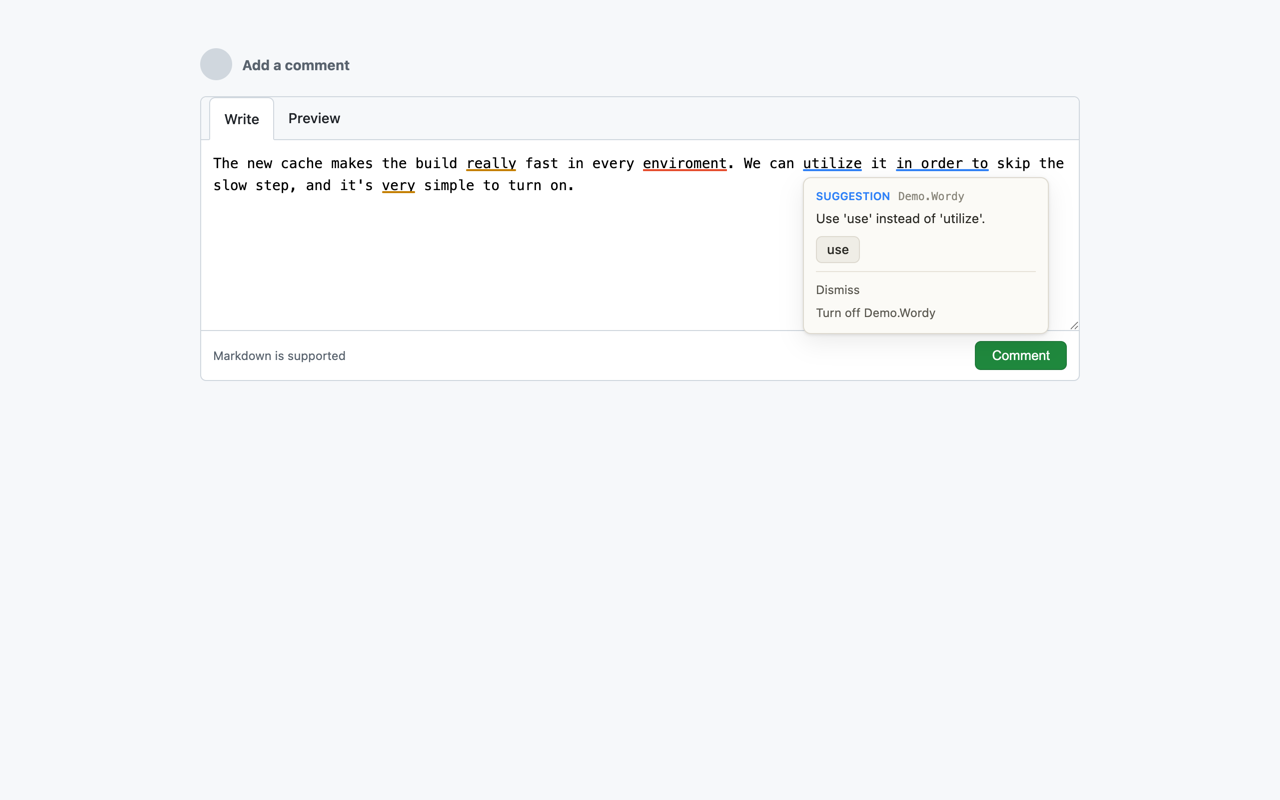
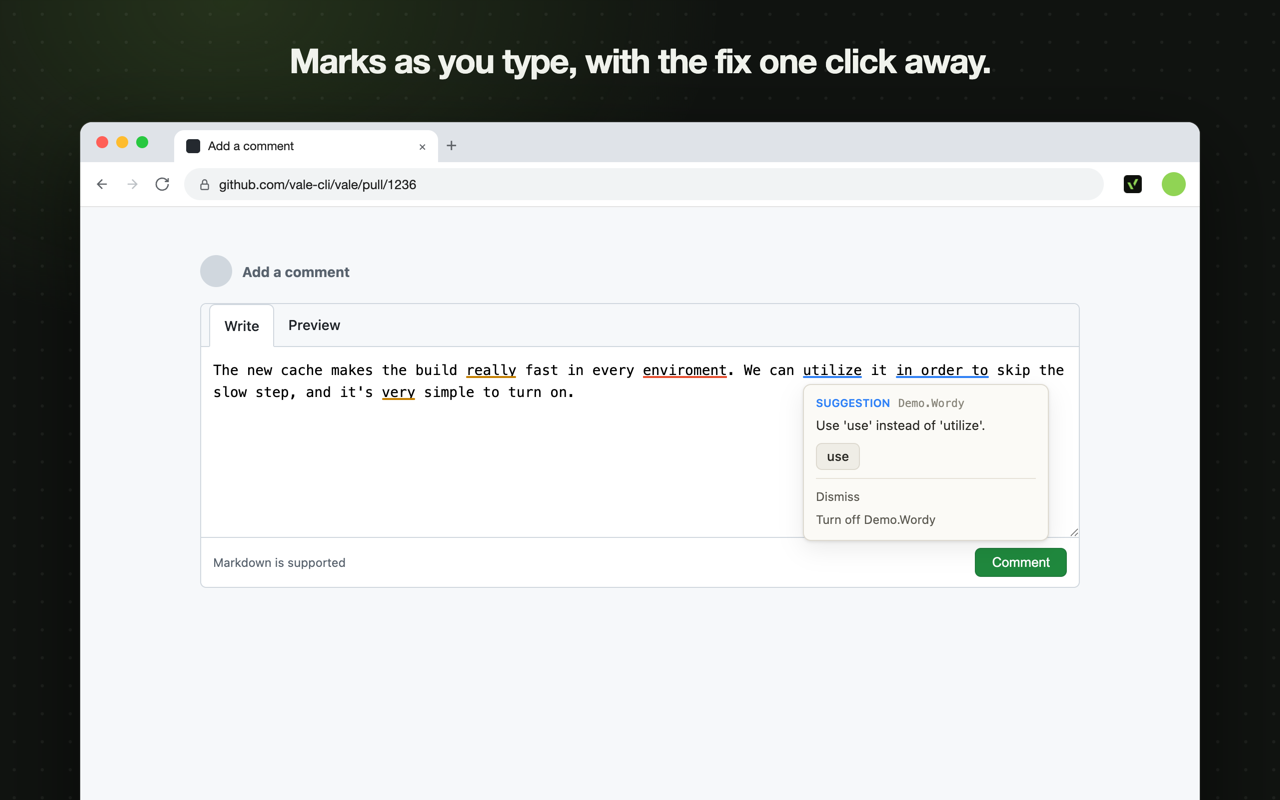
feat: Check AsciiDoc and reStructuredText, and frame the store screenshots

diff --git a/entrypoints/options/App.svelte b/entrypoints/options/App.svelte
@@ -10,6 +10,7 @@
   import CodeEditor from "@/lib/components/CodeEditor.svelte";
   import { valeIniLanguage } from "@/lib/editor/vale-ini";
   import { parsePackages } from "@/lib/packages";
+  import { formats } from "@/lib/format";
   import type { ResolvedConfig, SyncResponse } from "@/lib/messages";
   import { bytesToBase64, defaultINI, defaultSettings, loadSettings, saveSettings, type Settings } from "@/lib/settings";
   import BookOpenIcon from "@lucide/svelte/icons/book-open";
@@ -76,6 +77,11 @@
 
   let saveTimer: number | undefined;
   // Edits apply live: the profile is saved shortly after each change.
+  // The formats to offer a site: the list, and the site's own if it isn't on it.
+  function formatOptions(current: string) {
+    return formats.some((f) => f.id === current) ? formats : [...formats, { id: current, label: current }];
+  }
+
   function changed() {
     saveState = "unsaved";
     window.clearTimeout(saveTimer);
@@ -360,17 +366,26 @@
                 <div class="flex items-center gap-3 border-b px-3 py-2 last:border-b-0">
                   <Switch id="site-{host}" size="sm" bind:checked={site.enabled} onCheckedChange={changed} />
                   <label for="site-{host}" class="truncate">{host}</label>
-                  <Badge variant="outline" class="ml-auto font-mono">{site.format}</Badge>
+                  <select
+                    aria-label="Format for {host}"
+                    class="border-input bg-background ml-auto h-7 rounded-md border px-2 text-xs"
+                    bind:value={site.format}
+                    onchange={changed}
+                  >
+                    {#each formatOptions(site.format) as f (f.id)}<option value={f.id}>{f.label}</option>{/each}
+                  </select>
                   <Button size="icon-sm" variant="ghost" aria-label="Remove {host}" onclick={() => removeSite(host)}><TrashIcon /></Button>
                 </div>
               {/each}
             </div>
             <div class="flex items-center gap-2">
               <Input placeholder="example.com" bind:value={newHost} class="flex-1" />
-              <Input placeholder="md" bind:value={newFormat} class="w-16 font-mono" />
+              <select aria-label="Format" class="border-input bg-background h-8 rounded-md border px-2 text-xs" bind:value={newFormat}>
+                {#each formats as f (f.id)}<option value={f.id}>{f.label}</option>{/each}
+              </select>
               <Button size="sm" variant="secondary" onclick={addSite}><PlusIcon data-icon="inline-start" />Add</Button>
             </div>
-            <p class="text-muted-foreground text-xs">The format is what the text in a site's editors is written in: <code>md</code> for Markdown, <code>txt</code> for plain text.</p>
+            <p class="text-muted-foreground text-xs">The format is what the text in a site's editors is written in. In GitHub's and GitLab's file editors, the file's own extension decides: a <code>.rst</code> file is checked as reStructuredText.</p>
           {/if}
         </div>
       </aside>

diff --git a/lib/format.test.ts b/lib/format.test.ts
@@ -1,0 +1,32 @@
+import { fileFormat, formatFor } from "./format";
+
+describe("fileFormat", () => {
+  it("reads the format from a GitHub web editor's file", () => {
+    expect(fileFormat("https://github.com/vale-cli/vale/edit/main/docs/install.rst")).toBe("rst");
+    expect(fileFormat("https://github.com/vale-cli/vale/edit/v3/README.adoc")).toBe("adoc");
+    expect(fileFormat("https://github.com/vale-cli/vale/new/main/docs/guide.asciidoc")).toBe("adoc");
+    expect(fileFormat("https://github.com/vale-cli/vale/edit/main/CHANGES.MD")).toBe("md");
+  });
+
+  it("reads it from a GitLab web editor's file", () => {
+    expect(fileFormat("https://gitlab.com/group/sub/project/-/edit/main/doc/index.rst")).toBe("rst");
+    expect(fileFormat("https://gitlab.com/g/p/-/new/main/notes.adoc")).toBe("adoc");
+  });
+
+  it("leaves everything else to the site", () => {
+    // Viewing a file, not editing it: its comments are the site's format.
+    expect(fileFormat("https://github.com/vale-cli/vale/blob/main/docs/install.rst")).toBeNull();
+    expect(fileFormat("https://github.com/vale-cli/vale/pull/12")).toBeNull();
+    expect(fileFormat("https://github.com/vale-cli/vale/edit/main/Makefile")).toBeNull();
+    expect(fileFormat("https://github.com/vale-cli/vale/edit/main/main.go")).toBeNull();
+    expect(fileFormat("https://example.com/edit/a/b/c.rst")).toBeNull();
+    expect(fileFormat("not a url")).toBeNull();
+  });
+});
+
+describe("formatFor", () => {
+  it("prefers the file's format, then the site's", () => {
+    expect(formatFor("https://github.com/o/r/edit/main/a.rst", "md")).toBe("rst");
+    expect(formatFor("https://github.com/o/r/issues/1", "md")).toBe("md");
+  });
+});

diff --git a/lib/format.ts b/lib/format.ts
@@ -1,0 +1,53 @@
+// What the text in a field is written in, as Vale names it.
+
+/** The formats the engine reads natively, for the options page. */
+export const formats = [
+  { id: "md", label: "Markdown" },
+  { id: "adoc", label: "AsciiDoc" },
+  { id: "rst", label: "reStructuredText" },
+  { id: "html", label: "HTML" },
+  { id: "txt", label: "Plain text" },
+] as const;
+
+const byExtension: Record<string, string> = {
+  md: "md",
+  markdown: "md",
+  adoc: "adoc",
+  asciidoc: "adoc",
+  asc: "adoc",
+  rst: "rst",
+  html: "html",
+  htm: "html",
+  txt: "txt",
+};
+
+/**
+ * fileFormat is the format of the file a page edits, when it is a GitHub or
+ * GitLab web editor: `github.com/o/r/edit/main/docs/install.rst` is `rst`.
+ */
+export function fileFormat(url: string): string | null {
+  let u: URL;
+  try {
+    u = new URL(url);
+  } catch {
+    return null;
+  }
+  const host = u.hostname.replace(/^www\./, "");
+  const parts = u.pathname.split("/").filter(Boolean);
+  let editing = false;
+  if (host === "github.com") editing = parts[2] === "edit" || parts[2] === "new";
+  else if (host === "gitlab.com") {
+    const dash = parts.indexOf("-");
+    editing = dash >= 0 && (parts[dash + 1] === "edit" || parts[dash + 1] === "new");
+  }
+  if (!editing) return null;
+  const name = decodeURIComponent(parts[parts.length - 1] ?? "");
+  const dot = name.lastIndexOf(".");
+  if (dot <= 0) return null;
+  return byExtension[name.slice(dot + 1).toLowerCase()] ?? null;
+}
+
+/** formatFor is the file's format in a web editor, and the site's otherwise. */
+export function formatFor(url: string, siteFormat: string): string {
+  return fileFormat(url) ?? siteFormat;
+}

diff --git a/entrypoints/background.ts b/entrypoints/background.ts
@@ -5,6 +5,7 @@ import { fetchPackage, parsePackages, parseStylesPath } from "@/lib/packages";
 import { base64ToBytes, bytesToBase64, dismissKey, hostOf, loadSettings, saveSettings, siteFor, type Settings } from "@/lib/settings";
 import { acceptFile, vocabPath, withVocab } from "@/lib/vocab";
 import { offsetsOf } from "@/lib/text/positions";
+import { formatFor } from "@/lib/format";
 
 // A resolved configuration: the INI to lint under and the packages it needs
 // in the in-memory filesystem.
@@ -70,7 +71,7 @@ async function remember(change: (s: Settings) => void): Promise<void> {
 
 async function lint(text: string, url: string): Promise<LintResponse> {
   const s = await loadSettings();
-  const format = siteFor(s, hostOf(url)).format;
+  const format = formatFor(url, siteFor(s, hostOf(url)).format);
   const cfg = await resolve(url);
   if (!cfg) return { alerts: [], source: "off", format };
   try {
@@ -104,7 +105,7 @@ async function status(url: string): Promise<StatusResponse> {
     delay: s.delay ?? 0,
     hover: s.hover,
     host,
-    format: site.format,
+    format: formatFor(url, site.format),
     source: site.enabled ? "profile" : "off",
     ready: engine.isReady(),
   };

diff --git a/store/listing.md b/store/listing.md
@@ -30,6 +30,7 @@ WHAT IT DOES
 • Underlines each alert as you type, with no wait, in text areas, inputs, frames, and rich editors (ProseMirror, TipTap, Lexical, Slate, Quill, CKEditor) on the sites you turn it on for.
 • Opens a card on a click, or with Alt+Enter at the cursor: the alert, its fixes one click away, and Dismiss, Turn off the rule, or Add to vocabulary. Alt+Shift+Enter applies the first fix without opening the card.
 • Uses one configuration everywhere: a .vale.ini, packages from the Vale package library, and your own house style uploaded as a .zip. The built-in style works with no setup at all.
+• Reads Markdown, AsciiDoc, reStructuredText, HTML, and plain text. In GitHub's and GitLab's file editors, the file's extension picks the format.
 • Keeps what you've told it from the cards (words added, rules turned off, alerts dismissed) in one place, the Yours tab, where any of it can be undone.
 • Runs on demand instead, if you'd rather: turn off "Check as you type" and check the focused field from the toolbar or with Alt+Shift+V.
 • Follows your system's light or dark theme.
@@ -83,8 +84,9 @@ the extension stores and fetches.
 
 ## Screenshots
 
-All three stores take 1280×800 PNGs, so one set serves them. These are shot
-at 2× and scaled to exactly 1280×800; Chrome rejects any other size.
+All three stores take 1280×800 PNGs, so one set serves them. Each page is
+shot at 2× inside a drawn browser window, under a one-line headline, and
+scaled to exactly 1280×800; Chrome rejects any other size.
 
 Taken, in `screenshots/`, by `scripts/screenshots/shoot.mjs` against the
 production build (`pnpm build` first):

diff --git a/README.md b/README.md
@@ -52,10 +52,12 @@ A package hosted anywhere else asks for its origin the first time it is synced.
 
 ## Formats
 
-Markdown, HTML, and plain text are checked in the browser. Each site has a
-format, `md` for GitHub and GitLab; add a site with its own on the options
-page. See [the WebAssembly build](https://docs.vale.sh/topics/wasm) for what
-the module supports.
+Markdown, AsciiDoc, reStructuredText, HTML, and plain text are checked in the
+browser; Vale reads all five natively. Each site has a format, Markdown for
+GitHub and GitLab, set on the options page. In GitHub's and GitLab's file
+editors the file's extension decides instead, so a `.rst` file is checked as
+reStructuredText. See [the WebAssembly build](https://docs.vale.sh/topics/wasm)
+for what the module supports.
 
 ## Development
 
